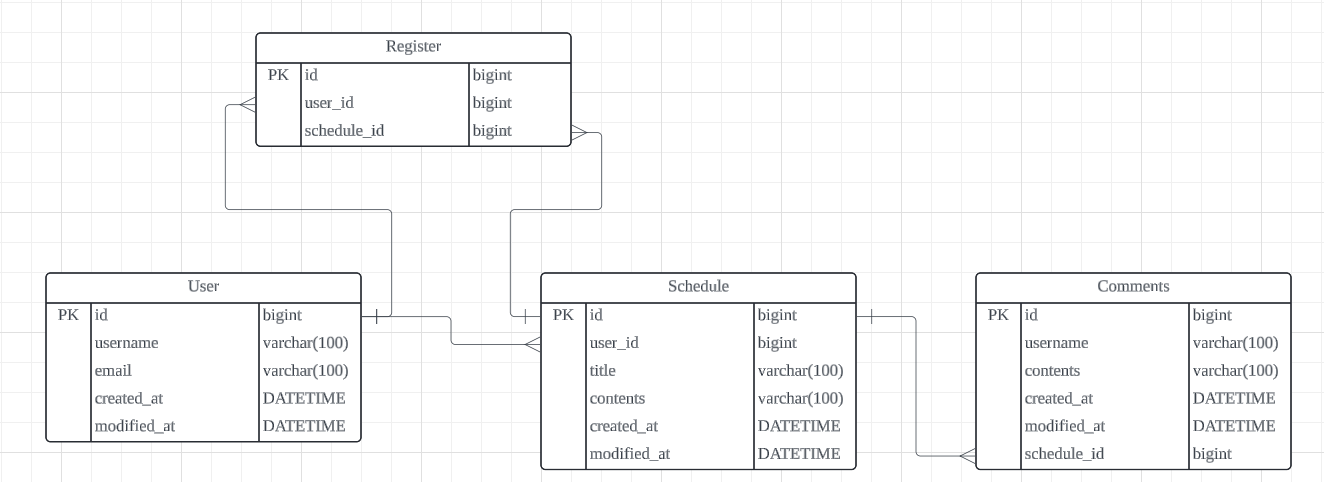
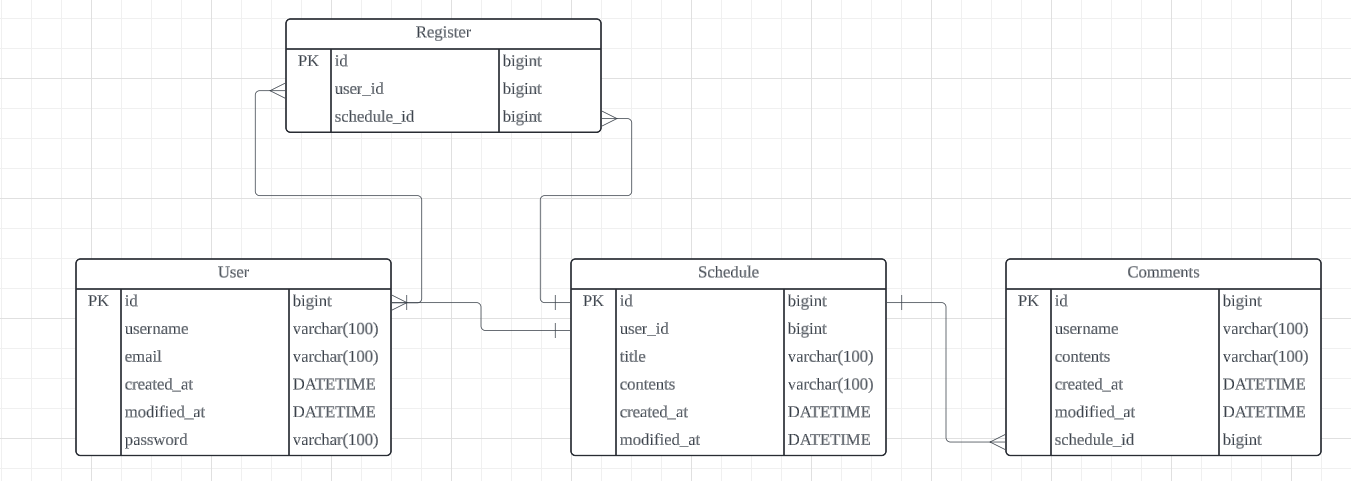
7단계 : JWT를 이용한 회원가입 구현 및 요구사항에 따른 ERD수정

diff --git a/src/main/java/com/sparta/jpaschedule/jwt/JwtUtil.java b/src/main/java/com/sparta/jpaschedule/jwt/JwtUtil.java
@@ -1,0 +1,94 @@
+package com.sparta.jpaschedule.jwt;
+
+import io.jsonwebtoken.*;
+import io.jsonwebtoken.security.Keys;
+import jakarta.annotation.PostConstruct;
+import jakarta.servlet.http.Cookie;
+import jakarta.servlet.http.HttpServletResponse;
+import org.slf4j.Logger;
+import org.slf4j.LoggerFactory;
+import org.springframework.beans.factory.annotation.Value;
+import org.springframework.stereotype.Component;
+import org.springframework.util.StringUtils;
+
+import java.io.UnsupportedEncodingException;
+import java.net.URLEncoder;
+import java.security.Key;
+import java.util.Base64;
+
+@Component
+public class JwtUtil {
+
+    public static final String AUTHORIZATION_HEADER = "Authorization";
+    public static final String BEARER_PREFIX = "Bearer ";
+
+    @Value("${jwt.secret.key}") // Base64 Encode 한 SecretKey
+    private String secretKey;
+    private Key key;
+    private final SignatureAlgorithm signatureAlgorithm = SignatureAlgorithm.HS256;
+
+    // 로그 설정
+    public static final Logger logger = LoggerFactory.getLogger("JWT 관련 로그");
+
+    @PostConstruct
+    public void init() {
+        byte[] bytes = Base64.getDecoder().decode(secretKey);
+        key = Keys.hmacShaKeyFor(bytes);
+    }
+
+    // 토큰 생성
+    public String createToken(String email) {
+        return BEARER_PREFIX +
+                Jwts.builder()
+                        .setSubject(email) // 사용자 식별자값(ID)
+                        .signWith(key, signatureAlgorithm) // 암호화 알고리즘
+                        .compact();
+    }
+
+    // JWT Cookie 에 저장
+    public void addJwtToCookie(String token, HttpServletResponse res) {
+        try {
+            token = URLEncoder.encode(token, "utf-8").replaceAll("\\+", "%20"); // Cookie Value 에는 공백이 불가능해서 encoding 진행
+
+            Cookie cookie = new Cookie(AUTHORIZATION_HEADER, token); // Name-Value
+            cookie.setPath("/");
+
+            // Response 객체에 Cookie 추가
+            res.addCookie(cookie);
+        } catch (UnsupportedEncodingException e) {
+            logger.error(e.getMessage());
+        }
+    }
+
+    // JWT 토큰 substring
+    public String substringToken(String tokenValue) {
+        if (StringUtils.hasText(tokenValue) && tokenValue.startsWith(BEARER_PREFIX)) {
+            return tokenValue.substring(7);
+        }
+        logger.error("Not Found Token");
+        throw new NullPointerException("Not Found Token");
+    }
+
+    // 토큰 검증
+    public boolean validateToken(String token) {
+        try {
+            Jwts.parserBuilder().setSigningKey(key).build().parseClaimsJws(token);
+            return true;
+        } catch (SecurityException | MalformedJwtException | SignatureException e) {
+            logger.error("Invalid JWT signature, 유효하지 않는 JWT 서명 입니다.");
+        } catch (ExpiredJwtException e) {
+            logger.error("Expired JWT token, 만료된 JWT token 입니다.");
+        } catch (UnsupportedJwtException e) {
+            logger.error("Unsupported JWT token, 지원되지 않는 JWT 토큰 입니다.");
+        } catch (IllegalArgumentException e) {
+            logger.error("JWT claims is empty, 잘못된 JWT 토큰 입니다.");
+        }
+        return false;
+    }
+
+    // 토큰에서 사용자 정보 가져오기
+    public Claims getUserInfoFromToken(String token) {
+        return Jwts.parserBuilder().setSigningKey(key).build().parseClaimsJws(token).getBody();
+    }
+
+}

diff --git a/src/main/java/com/sparta/jpaschedule/service/UserService.java b/src/main/java/com/sparta/jpaschedule/service/UserService.java
@@ -1,25 +1,45 @@
 package com.sparta.jpaschedule.service;
 
+import com.sparta.jpaschedule.config.PasswordEncoder;
 import com.sparta.jpaschedule.dto.UserRequestDto;
 import com.sparta.jpaschedule.dto.UserResponseDto;
 import com.sparta.jpaschedule.entity.User;
+import com.sparta.jpaschedule.jwt.JwtUtil;
 import com.sparta.jpaschedule.repository.UserRepository;
+import jakarta.servlet.http.HttpServletResponse;
 import lombok.RequiredArgsConstructor;
 import org.springframework.stereotype.Service;
 import org.springframework.transaction.annotation.Transactional;
 
 import java.util.List;
+import java.util.Optional;
 
 @Service
 @RequiredArgsConstructor
 @Transactional
 public class UserService {
     private final UserRepository userRepository;
+    private final PasswordEncoder passwordEncoder;
+    private final JwtUtil jwtUtil;
+    private final HttpServletResponse res;
 
     public UserResponseDto createUser(UserRequestDto requestDto) {
-        User user = new User(requestDto);
-        User saveUser = userRepository.save(user);
-        UserResponseDto responseDto = new UserResponseDto(saveUser);
+        String username = requestDto.getUsername();
+        String password = passwordEncoder.encode(requestDto.getPassword());
+
+        String email = requestDto.getEmail();
+        Optional<User> checkEmail = userRepository.findByEmail(email);
+        if (checkEmail.isPresent()) {
+            throw new IllegalArgumentException("중복된 Email 입니다.");
+        }
+
+        User user = new User(username, password, email);
+
+        userRepository.save(user);
+        UserResponseDto responseDto = new UserResponseDto(user);
+
+        String token = jwtUtil.createToken(email);
+        jwtUtil.addJwtToCookie(token, res);
         return responseDto;
     }
 

diff --git a/src/main/java/com/sparta/jpaschedule/config/PasswordEncoder.java b/src/main/java/com/sparta/jpaschedule/config/PasswordEncoder.java
@@ -1,0 +1,17 @@
+package com.sparta.jpaschedule.config;
+
+import at.favre.lib.crypto.bcrypt.BCrypt;
+import org.springframework.stereotype.Component;
+
+@Component
+public class PasswordEncoder {
+
+    public String encode(String rawPassword) {
+        return BCrypt.withDefaults().hashToString(BCrypt.MIN_COST, rawPassword.toCharArray());
+    }
+
+    public boolean matches(String rawPassword, String encodedPassword) {
+        BCrypt.Result result = BCrypt.verifyer().verify(rawPassword.toCharArray(), encodedPassword);
+        return result.verified;
+    }
+}

diff --git a/src/main/java/com/sparta/jpaschedule/entity/User.java b/src/main/java/com/sparta/jpaschedule/entity/User.java
@@ -28,10 +28,19 @@ public class User extends Timestamped{
     @Column(nullable = false)
     private String email;
 
+    @Column(nullable = false)
+    private String password;
+
 
     public User(UserRequestDto requestDto) {
         this.username = requestDto.getUsername();
         this.email = requestDto.getEmail();
+    }
+
+    public User(String username, String password, String email) {
+        this.username = username;
+        this.password = password;
+        this.email = email;
     }
 
     public void update(UserRequestDto requestDto) {

diff --git a/src/main/java/com/sparta/jpaschedule/repository/UserRepository.java b/src/main/java/com/sparta/jpaschedule/repository/UserRepository.java
@@ -5,7 +5,10 @@ import org.springframework.data.jpa.repository.JpaRepository;
 import org.springframework.stereotype.Repository;
 import org.springframework.transaction.annotation.Transactional;
 
+import java.util.Optional;
+
 @Repository
 @Transactional
 public interface UserRepository extends JpaRepository <User, Long> {
+    Optional<User> findByEmail(String email);
 }

diff --git a/src/main/java/com/sparta/jpaschedule/dto/UserRequestDto.java b/src/main/java/com/sparta/jpaschedule/dto/UserRequestDto.java
@@ -6,5 +6,6 @@ import lombok.Getter;
 public class UserRequestDto {
     private String username;
     private String email;
+    private String password;
 
 }
